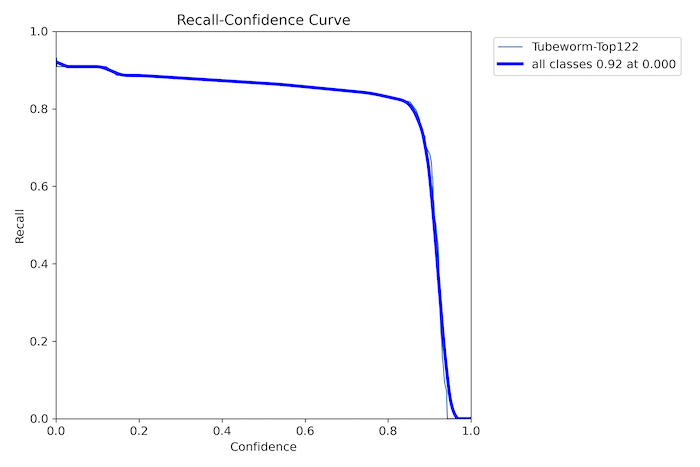
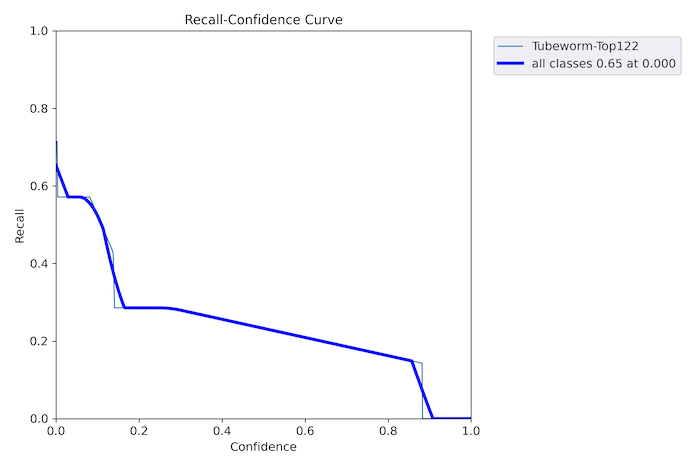
updated with reliable dataset devision

diff --git a/README.md b/README.md
@@ -1,6 +1,7 @@
 # Object detection of Tube worms
-![picture](https://github.com/boguss1225/obect-detection-tubeworm/blob/main/results/val_batch1_pred.jpg) \
-↑ tubeworm detect
+|label|annotation|
+|![picture](https://github.com/boguss1225/obect-detection-tubeworm/blob/main/results/val_batch1_labels.jpg)|![picture](https://github.com/boguss1225/obect-detection-tubeworm/blob/main/results/val_batch1_pred.jpg)| \
+↑ tubeworm detection result from unseen dataset
 
 # Introduction
 Deep-sea tubeworms belong to the annelid group Siboglinidae and have drawn considerable attention due to their abundance and dominance in deep-sea chemosynthetic environments.(Li et al. 2019) \
@@ -71,11 +72,12 @@ In the given image, you can find only object has been rotated.
 ## Evaluation on unseen test dataset
 |mAP(0.5)       |mAP(0.95)      |Precision     |Recall     |
 |-------------|---------------|------------|----------|
-|90.9%|30.3%|95.1%|88.4%|
+|62.9%|41.5%|75.9%|57.1%|
 
 ## Inference speed
-- **1.9ms** pre-process (only once)
-- **2.3ms** pre image at shape 1280 x 1280px, 3 channels (RRB)
+- **1.3ms** pre-process (only once)
+- **48.4ms** inference
+- **3.2ms** NMS pre image at shape 1280 x 1280px, 3 channels (RRB)
 
 ## Training learning curves
 ![picture](https://github.com/boguss1225/obect-detection-tubeworm/blob/main/results/training_result.png)
@@ -88,6 +90,10 @@ In the given image, you can find only object has been rotated.
 
 # Common installation errors
 https://github.com/boguss1225/obect-detection-tubeworm/issues?q=is%3Aissue+is%3Aclosed
+
+# Further things to do
+- Check missing annotation in the image (I think there are some)
+- Additional image preprocessing adjustment
 
 # References
 - Hoeksema BW, Timmerman RF, Spaargaren R, Smith-Moorhouse A, van der Schoot RJ, Langdon-Down SJ, Harper CE. Morphological Modifications and Injuries of Corals Caused by Symbiotic Feather Duster Worms (Sabellidae) in the Caribbean. Diversity. 2022; 14(5):332. https://doi.org/10.3390/d14050332
